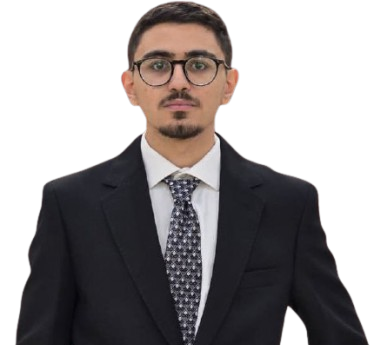
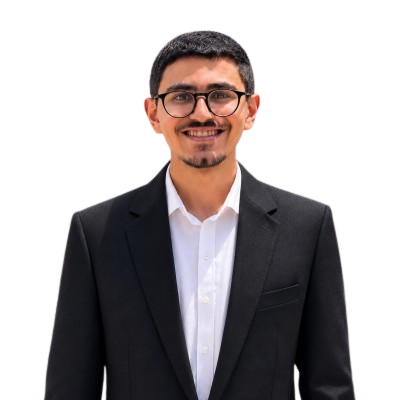
feat: add About and Portfolio components with associated image assets

diff --git a/src/components/Portfolio/Portfolio.tsx b/src/components/Portfolio/Portfolio.tsx
@@ -20,6 +20,21 @@ const Portfolio: React.FC = () => {
       github: "https://github.com/bishoyyousef?tab=repositories"
     },
     {
+      imageSrc: "Projects/customer-support.png",
+      imageAlt: "Customer Support Platform",
+      title: "Customer Support Platform",
+      description: "A production-grade, full-stack monorepo customer support platform featuring a shared Node.js/Express REST API, a React Customer Portal, and an Angular Support Workspace with real-time updates via Socket.IO.",
+      techStack: ["React", "Angular 19", "Node.js", "Express", "MongoDB", "Socket.IO"],
+      highlights: [
+        "JWT Auth & Role-Based Access Control",
+        "Real-Time Ticket Updates via Socket.IO",
+        "Manager Analytics Dashboard",
+        "E2E & K6 Performance Testing"
+      ],
+      link: "https://customer-support-platform-psi.vercel.app",
+      github: "https://github.com/bishoyyousef/customer-support-platform"
+    },
+    {
       imageSrc: "Projects/kanban.png",
       imageAlt: "Kanban Task Management App",
       title: "Kanban Task Management App",

diff --git a/src/components/About/About.tsx b/src/components/About/About.tsx
@@ -11,10 +11,10 @@ const About: React.FC = () => {
             <div className="relative group">
               {/* Outer glossy aura */}
               <div className="absolute -inset-2 bg-gradient-to-r from-indigo-500 to-purple-600 rounded-full blur-lg opacity-40 group-hover:opacity-75 transition-opacity duration-500"></div>
-              
+
               {/* Profile Image */}
               <img
-                src="bishoyyousef2.png"
+                src="bishoyyousef.png"
                 alt="Bishoy Yousef"
                 className="relative rounded-full w-56 h-56 sm:w-64 sm:h-64 lg:w-80 lg:h-80 object-cover border-4 border-indigo-500/80 shadow-2xl transition-all duration-300 transform group-hover:scale-[1.02]"
               />
